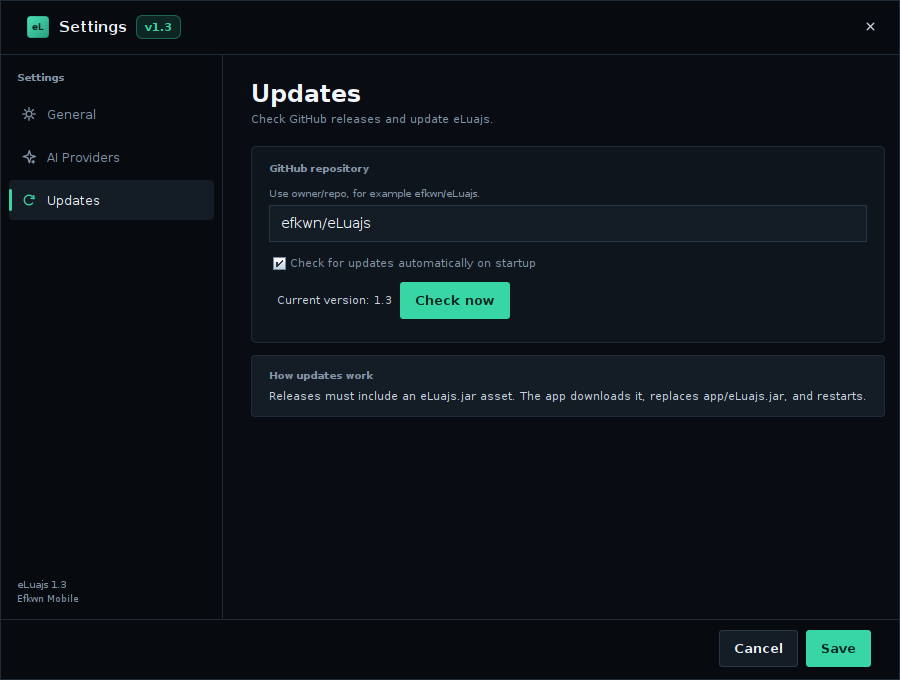
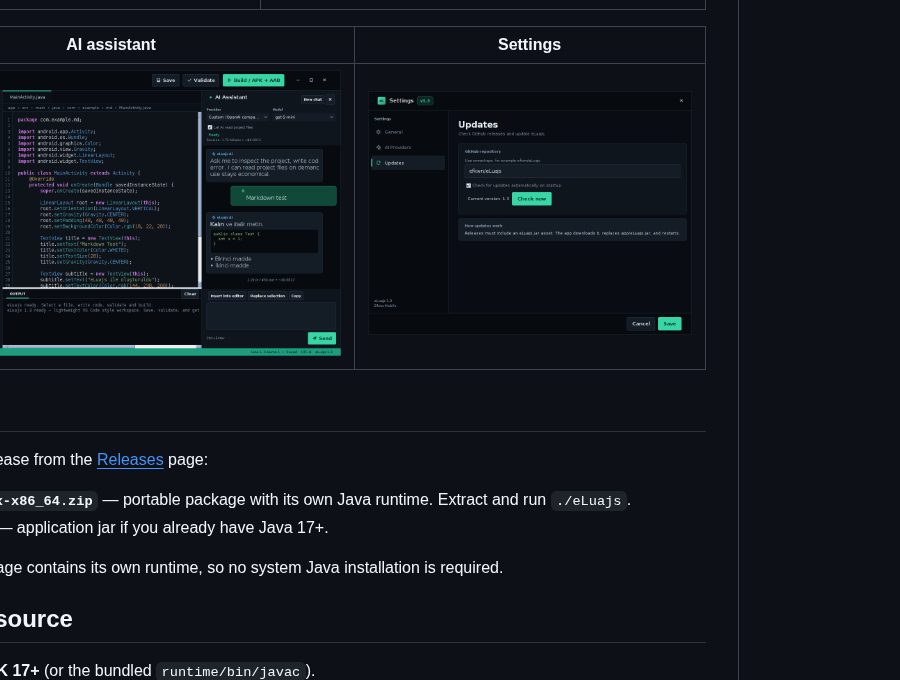
chore: lock updates to the official repo, clean docs and refresh screenshots

diff --git a/source/src/main/java/eluajs/ui/SettingsDialog.java b/source/src/main/java/eluajs/ui/SettingsDialog.java
@@ -40,7 +40,6 @@ public final class SettingsDialog extends JDialog {
     private final JCheckBox showKey = new JCheckBox(t("Show"));
     private final JLabel status = Ui.label("", 11, Font.PLAIN, Theme.MUTED);
     private final JLabel savedProviders = Ui.label("", 10, Font.PLAIN, Theme.MUTED);
-    private final JTextField updateRepo = Ui.field();
     private final JCheckBox autoUpdate = new JCheckBox(t("Check for updates automatically on startup"));
     private final JLabel updateStatus = Ui.label("", 11, Font.PLAIN, Theme.MUTED);
 
@@ -317,19 +316,22 @@ public final class SettingsDialog extends JDialog {
         card.setAlignmentX(Component.LEFT_ALIGNMENT);
         card.setBorder(new EmptyBorder(16, 18, 16, 18));
         card.setMaximumSize(new Dimension(Integer.MAX_VALUE, 330));
-        card.add(Ui.sectionLabel(t("GitHub repository")), BorderLayout.NORTH);
+        card.add(Ui.sectionLabel(t("Official repository")), BorderLayout.NORTH);
 
         JPanel form = new JPanel();
         form.setOpaque(false);
         form.setLayout(new BoxLayout(form, BoxLayout.Y_AXIS));
 
-        JLabel repoHint = Ui.label(t("Use owner/repo, for example whyefkan/eLuajs."), 10, Font.PLAIN, Theme.MUTED);
-        repoHint.setAlignmentX(Component.LEFT_ALIGNMENT);
-        updateRepo.setAlignmentX(Component.LEFT_ALIGNMENT);
-        updateRepo.setMaximumSize(new Dimension(Integer.MAX_VALUE, 38));
-        form.add(repoHint);
-        form.add(Box.createVerticalStrut(5));
-        form.add(updateRepo);
+        JPanel official = new JPanel(new FlowLayout(FlowLayout.LEFT, 8, 0));
+        official.setOpaque(false);
+        official.setAlignmentX(Component.LEFT_ALIGNMENT);
+        official.add(Ui.label(t("Official repository:"), 11, Font.PLAIN, Theme.MUTED));
+        official.add(Ui.badge(UpdateManager.OFFICIAL_REPO, Theme.ACCENT));
+        form.add(official);
+        form.add(Box.createVerticalStrut(6));
+        JLabel officialHint = Ui.label(t("Updates always come from the official eLuajs repository."), 10, Font.PLAIN, Theme.MUTED);
+        officialHint.setAlignmentX(Component.LEFT_ALIGNMENT);
+        form.add(officialHint);
         form.add(Box.createVerticalStrut(10));
 
         autoUpdate.setOpaque(false);
@@ -369,8 +371,6 @@ public final class SettingsDialog extends JDialog {
     }
 
     private void checkUpdates(JButton button) {
-        String repo = updateRepo.getText().trim();
-        updateConfig.setRepo(repo);
         updateConfig.setAutoCheck(autoUpdate.isSelected());
         updateConfig.save();
         button.setEnabled(false);
@@ -378,7 +378,7 @@ public final class SettingsDialog extends JDialog {
         updateStatus.setForeground(Theme.MUTED);
         SwingWorker<UpdateManager.Release, Void> worker = new SwingWorker<>() {
             @Override protected UpdateManager.Release doInBackground() throws Exception {
-                return UpdateManager.check(repo);
+                return UpdateManager.check();
             }
             @Override protected void done() {
                 button.setEnabled(true);
@@ -457,7 +457,6 @@ public final class SettingsDialog extends JDialog {
         loadProviderFields();
         loadingProvider = false;
         refreshSavedProviders();
-        updateRepo.setText(updateConfig.repo());
         autoUpdate.setSelected(updateConfig.autoCheck());
     }
 
@@ -528,7 +527,6 @@ public final class SettingsDialog extends JDialog {
         storeProviderFields();
         config.setProvider((AiProvider) providerCombo.getSelectedItem());
         config.save();
-        updateConfig.setRepo(updateRepo.getText());
         updateConfig.setAutoCheck(autoUpdate.isSelected());
         updateConfig.save();
         LangItem selected = (LangItem) languageCombo.getSelectedItem();

diff --git a/source/src/main/java/eluajs/update/UpdateManager.java b/source/src/main/java/eluajs/update/UpdateManager.java
@@ -20,6 +20,8 @@ import java.util.zip.ZipFile;
 
 /** GitHub Releases based updater. Downloads an eLuajs.jar asset and replaces the running jar. */
 public final class UpdateManager {
+    public static final String OFFICIAL_REPO = "whyefkan/eLuajs";
+
     public record Release(String tag, String version, String notes, String pageUrl,
                           String assetUrl, String assetName, boolean newer) { }
 
@@ -31,10 +33,10 @@ public final class UpdateManager {
 
     private UpdateManager() {}
 
-    public static Release check(String repo) throws Exception {
-        String cleaned = repo == null ? "" : repo.trim();
+    public static Release check() throws Exception {
+        String cleaned = OFFICIAL_REPO;
         if (!cleaned.matches("[A-Za-z0-9_.-]+/[A-Za-z0-9_.-]+")) {
-            throw new IOException("GitHub repository must look like owner/repo");
+            throw new IOException("Official repository is invalid");
         }
         HttpRequest request = HttpRequest.newBuilder(URI.create("https://api.github.com/repos/" + cleaned + "/releases/latest"))
                 .timeout(Duration.ofSeconds(25))
@@ -84,9 +86,9 @@ public final class UpdateManager {
     public static void checkOnStartup(Window owner, Consumer<Release> onUpdate) {
         if (!STARTUP_CHECKED.compareAndSet(false, true)) return;
         UpdateConfig cfg = UpdateConfig.load();
-        if (!cfg.autoCheck() || cfg.repo().isBlank()) return;
+        if (!cfg.autoCheck()) return;
         SwingWorker<Release, Void> worker = new SwingWorker<>() {
-            @Override protected Release doInBackground() throws Exception { return check(cfg.repo()); }
+            @Override protected Release doInBackground() throws Exception { return check(); }
             @Override protected void done() {
                 try {
                     Release release = get();

diff --git a/source/src/main/java/eluajs/util/I18n.java b/source/src/main/java/eluajs/util/I18n.java
@@ -524,6 +524,9 @@ public final class I18n {
         tr("Active provider", "Etkin sağlayıcı");
         tr("Connect a provider and choose a model.", "Bir sağlayıcı bağlayın ve model seçin.");
         tr("Keys are stored locally in ~/.eluajs/ai.properties and are never uploaded except to the provider you call.", "Anahtarlar yerel olarak ~/.eluajs/ai.properties içinde saklanır ve çağırdığınız sağlayıcı dışında hiçbir yere yüklenmez.");
+        tr("Official repository:", "Resmi depo:");
+        tr("Official repository", "Resmi depo");
+        tr("Updates always come from the official eLuajs repository.", "Güncellemeler her zaman resmi eLuajs deposundan gelir.");
         tr("Updates", "Güncellemeler");
         tr("Check GitHub releases and update eLuajs.", "GitHub sürümlerini kontrol edin ve eLuajs'ı güncelleyin.");
         tr("GitHub repository", "GitHub deposu");
@@ -582,6 +585,9 @@ public final class I18n {
         tr("Active provider", "Etkin sağlayıcı");
         tr("Connect a provider and choose a model.", "Bir sağlayıcı bağlayın ve model seçin.");
         tr("Keys are stored locally in ~/.eluajs/ai.properties and are never uploaded except to the provider you call.", "Anahtarlar yerel olarak ~/.eluajs/ai.properties içinde saklanır ve çağırdığınız sağlayıcı dışında hiçbir yere yüklenmez.");
+        tr("Official repository:", "Resmi depo:");
+        tr("Official repository", "Resmi depo");
+        tr("Updates always come from the official eLuajs repository.", "Güncellemeler her zaman resmi eLuajs deposundan gelir.");
         tr("Updates", "Güncellemeler");
         tr("Check GitHub releases and update eLuajs.", "GitHub sürümlerini kontrol edin ve eLuajs'ı güncelleyin.");
         tr("GitHub repository", "GitHub deposu");

diff --git a/source/src/main/java/eluajs/update/UpdateConfig.java b/source/src/main/java/eluajs/update/UpdateConfig.java
@@ -20,15 +20,6 @@ public final class UpdateConfig {
         return cfg;
     }
 
-    public String repo() {
-        String value = props.getProperty("repo", "whyefkan/eLuajs");
-        return value == null ? "" : value.trim();
-    }
-
-    public void setRepo(String repo) {
-        props.setProperty("repo", repo == null ? "" : repo.trim());
-    }
-
     public boolean autoCheck() {
         return !"false".equalsIgnoreCase(props.getProperty("auto", "true"));
     }

diff --git a/README.md b/README.md
@@ -81,8 +81,8 @@ Open the AI panel with the activity bar icon or `Ctrl+Alt+A`.
 
 ## Updates
 
-- Set your repository in **Settings → Updates** (default: `whyefkan/eLuajs`).
-- Auto-check runs on startup and can be disabled.
+- Updates are always fetched from the official repository: **`whyefkan/eLuajs`**.
+- Auto-check runs on startup and can be disabled in **Settings → Updates**.
 - Releases must include an `eLuajs.jar` asset. The included GitHub Actions workflow builds the jar and portable zip when a `v*` tag is pushed.
 - The updater backs up the old jar as `eLuajs.jar.bak` before installing.
 
